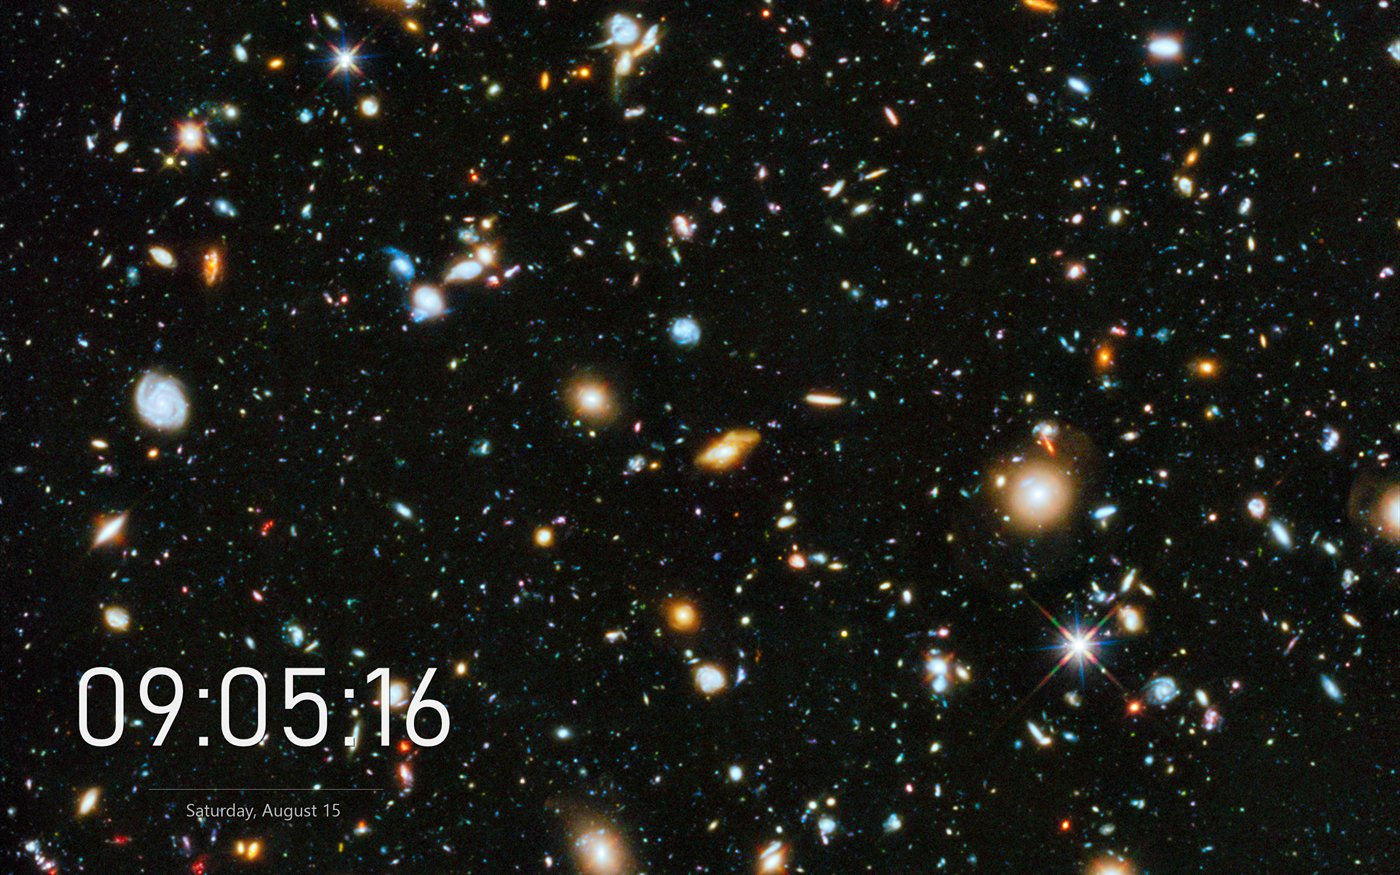
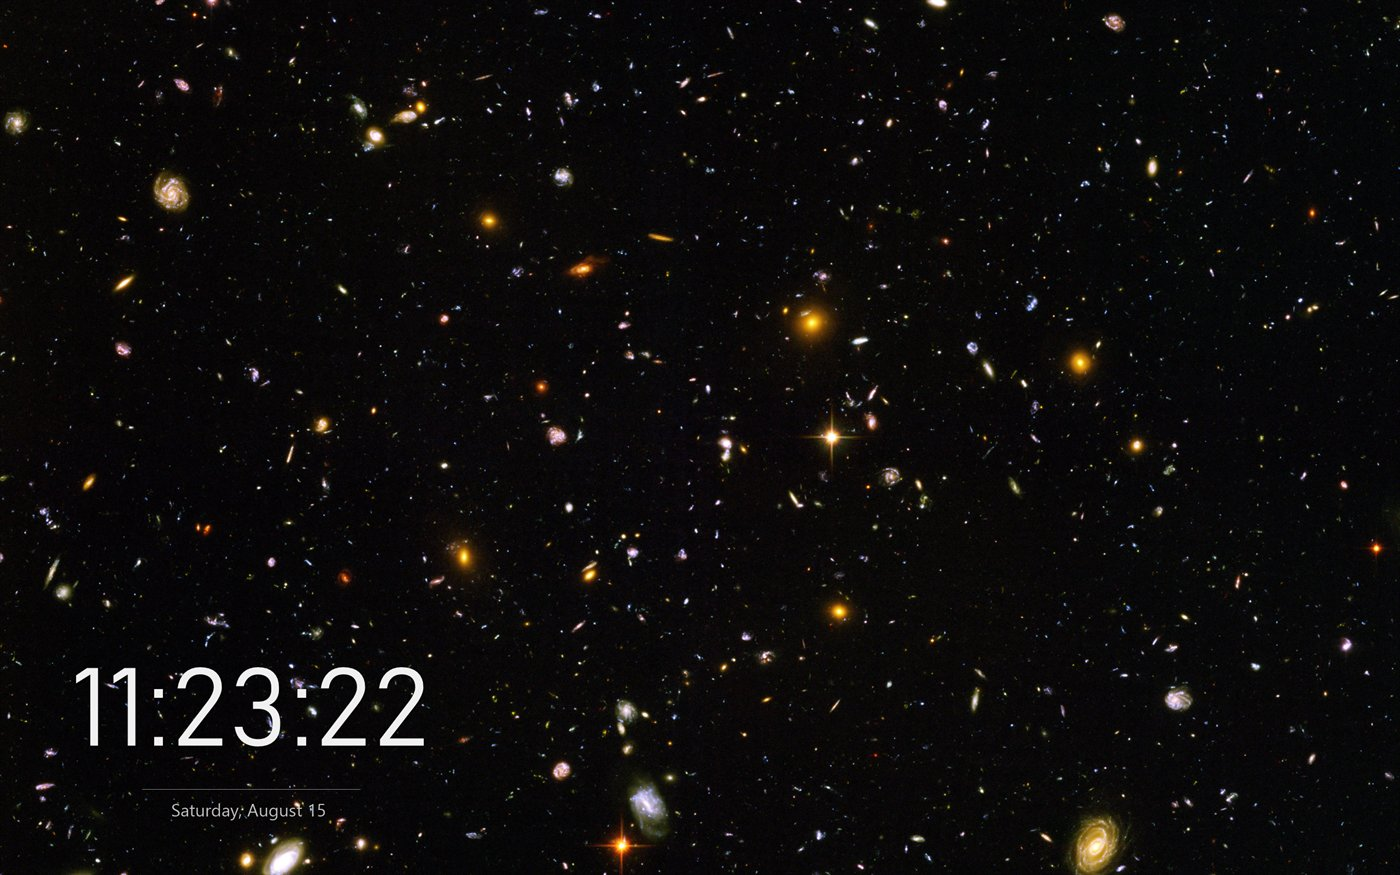
Replace the low-resolution screenshots and add an animated demo
The video screenshot was captured from a 960x720 source stretched to a
2560x1600 display, and the Hubble still was 2300x2100, under the panel's
native width. Both looked soft, which is a bad look for a project whose
pitch is a sharp desktop.

Recaptured against sources that exceed the display:

- video now uses Big Buck Bunny at 4000x2250 (CC BY 3.0, Blender
  Foundation) instead of the 960x720 aurora clip
- Hubble Ultra Deep Field now uses the 6200x6200 edit instead of the
  2300x2100 file

Adds docs/media/demo.gif, a real screen recording of the 4K clip decoding
on the desktop with the clock ticking over it. Stills cannot show that a
live wallpaper is actually live.

Big Buck Bunny is CC BY rather than CC0, so attribution is a licence
condition here, not a courtesy. Credited in the README caption and in
THIRD-PARTY-NOTICES, which also now states that none of this media is in
the built-in gallery. The gallery stays CC0 and public domain only.

diff --git a/THIRD-PARTY-NOTICES.md b/THIRD-PARTY-NOTICES.md
@@ -27,11 +27,21 @@ is CC0 or public domain and permits it:
 | Screenshot | Media shown | Author | License | Source |
 |---|---|---|---|---|
 | `hero.jpg` | Marmolada, Italy | Marco Bonomo | CC0 | [Commons](https://commons.wikimedia.org/wiki/File:Marmolada,_Italy.jpg) |
-| `live-video.jpg` | Time-lapse of Aurora Borealis in Norway | Christer Olsen | CC0 | [Commons](https://commons.wikimedia.org/wiki/File:Time-lapse_of_Aurora_Borealis_in_Norway.webm) |
-| `clock-bahnschrift.jpg` | Hubble Ultra Deep Field 2014 | NASA/ESA, H. Teplitz & M. Rafelski (IPAC/Caltech), A. Koekemoer (STScI) et al. | Public domain | [Commons](https://commons.wikimedia.org/wiki/File:NASA-HS201427a-HubbleUltraDeepField2014-20140603.jpg) |
+| `live-video.jpg`, `demo.gif` | Big Buck Bunny (2008) | Blender Foundation | **CC BY 3.0** | [Commons](https://commons.wikimedia.org/wiki/File:Big_Buck_Bunny_4K.webm) |
+| `clock-bahnschrift.jpg` | Hubble Ultra Deep Field | NASA and the European Space Agency | Public domain | [Commons](https://commons.wikimedia.org/wiki/File:Hubble_ultra_deep_field_high_rez_edit1.jpg) |
 | `clock-cascadia.jpg` | The Earth seen from Apollo 17 ("Blue Marble") | NASA / Apollo 17 crew | Public domain | [Commons](https://commons.wikimedia.org/wiki/File:The_Earth_seen_from_Apollo_17.jpg) |
 | `clock-georgia.jpg` | Alone in the unspoilt wilderness | David Marcu | CC0 | [Commons](https://commons.wikimedia.org/wiki/File:Alone_in_the_unspoilt_wilderness_(Unsplash).jpg) |
-| `tray-menu.png` | (aurora time-lapse, as above) | Christer Olsen | CC0 | as above |
-| `settings-*.png` | none — application UI only | — | — | — |
+| `tray-menu.png` | Time-lapse of Aurora Borealis in Norway | Christer Olsen | CC0 | [Commons](https://commons.wikimedia.org/wiki/File:Time-lapse_of_Aurora_Borealis_in_Norway.webm) |
+| `settings-*.png` | none, application UI only | — | — | — |
+
+**Big Buck Bunny requires attribution.** It is the only asset here under CC BY rather than CC0
+or public domain, so the credit line is a licence condition and not a courtesy:
+
+> *Big Buck Bunny*, (c) copyright 2008, Blender Foundation, [peach.blender.org](https://peach.blender.org),
+> licensed under [Creative Commons Attribution 3.0](https://creativecommons.org/licenses/by/3.0/).
+> The frames shown are unmodified stills and a short excerpt used to demonstrate video playback.
 
 NASA imagery carries "Courtesy NASA" attribution and implies no endorsement.
+
+None of this media is in the built-in gallery, which remains CC0 and public domain only. These
+files exist solely as documentation screenshots.

diff --git a/README.md b/README.md
@@ -26,9 +26,14 @@ can reproduce any of them in about four clicks.
 
 ### Video, playing live on the desktop
 
-![Aurora time-lapse playing as a live wallpaper](docs/media/live-video.jpg)
+![FeatherWall playing a 4K animated wallpaper with the clock widget](docs/media/demo.gif)
 
-<sub><i>Time-lapse of Aurora Borealis in Norway</i>, Christer Olsen, CC0, via the built-in gallery.</sub>
+That is a real screen recording, not a mockup: a 4000x2250 clip decoding on the desktop with the
+clock ticking over it, while the desktop stays fully usable underneath.
+
+![A 4K animated film playing as a live wallpaper](docs/media/live-video.jpg)
+
+<sub><i>Big Buck Bunny</i>, (c) copyright 2008 Blender Foundation, <a href="https://peach.blender.org">peach.blender.org</a>, <a href="https://creativecommons.org/licenses/by/3.0/">CC BY 3.0</a>.</sub>
 
 ### The clock takes any font you own
 
@@ -44,7 +49,7 @@ scrolling it.
 |---|
 | ![Clock in Georgia, centred](docs/media/clock-georgia.jpg) |
 
-<sub>Hubble Ultra Deep Field (NASA/ESA, public domain). <i>The Earth seen from Apollo 17</i> (NASA, public domain). <i>Alone in the unspoilt wilderness</i>, David Marcu, CC0.</sub>
+<sub>Hubble Ultra Deep Field (NASA and the European Space Agency, public domain). <i>The Earth seen from Apollo 17</i> (NASA, public domain). <i>Alone in the unspoilt wilderness</i>, David Marcu, CC0. Full credits in <a href="THIRD-PARTY-NOTICES.md">THIRD-PARTY-NOTICES.md</a>.</sub>
 
 ### Settings that apply while you watch
 
